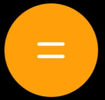
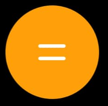
buttons do not contain images anymore. Restyled to make the buttons look similar to IOS calculator. Added active and hover states for buttons.

Changed region(s): [[0.0286, 0.03, 0.9429, 0.99], [0.3429, 0.51, 0.6286, 0.6], [0.3429, 0.39, 0.6286, 0.48]]

diff --git a/assignments/assignment-4/index.html b/assignments/assignment-4/index.html
@@ -14,73 +14,72 @@
 <body>
 <main>
     <div id="input-display">
-        <iframe>
-        </iframe>
-          
-
+        <div id="input-buffer">
+        </div>
     </div>
-    <div id="output-area">
-        <iframe></iframe>
+    <div id="output-display">
+        <div id="output-buffer">
 
+        </div>
     </div>
     <div id="button-container">
 
-        <button id="AC">
-            <img src="button images/AC.PNG">
+        <button id="AC" type="submit">
+            <h1>AC</h1>
         </button>
-        <button id="plusminus">
-            <img src="button images/+-.PNG">
+        <button id="plusminus" type="submit">
+            <h1>+/-</h1>
         </button>
-        <button id="mod">
-            <img src="button images/mod.PNG">
+        <button id="mod" type="submit">
+            <h1>%</h1>
         </button>
-        <button id="division">
-            <img src="button images/div.PNG">
+        <button id="division" type="submit">
+            <h1>/</h1>
         </button>
-        <button id="1">
-            <img src="button images/1.PNG">
+        <button id="1" type="submit">
+            <h1>1</h1>
         </button>
-        <button id="2">
-            <img src="button images/2.PNG">
+        <button id="2" type="submit">
+            <h1>2</h1>
         </button>
-        <button id="3">
-            <img src="button images/3.PNG">
+        <button id="3" type="submit">
+            <h1>3</h1>
         </button>
-        <button id="multiplication">
-            <img src="button images/multiply.PNG">
+        <button id="multiplication" type="submit">
+            <h1>X</h1>
         </button>
-        <button id="4">
-            <img src="button images/4.PNG">
+        <button id="4" type="submit">
+            <h1>4</h1>
         </button>
-        <button id="5">
-            <img src="button images/5.PNG">
+        <button id="5" type="submit">
+            <h1>5</h1>
         </button>
-        <button id="6">
-            <img src="button images/6.PNG">
+        <button id="6" type="submit">
+            <h1>6</h1>
         </button>
-        <button id="subtraction">
-            <img src="button images/sub.PNG">
+        <button id="subtraction" type="submit">
+            <h1>-</h1>
         </button>
-        <button id="7">
-            <img src="button images/7.PNG">
+        <button id="7" type="submit">
+            <h1>7</h1>
         </button>
-        <button id="8">
-            <img src="button images/8.PNG">
+        <button id="8" type="submit">
+            <h1>8</h1>
         </button>
-        <button id="9">
-            <img src="button images/9.PNG">
+        <button id="9" type="submit">
+            <h1>9</h1>
         </button>
-        <button id="addition">
-            <img src="button images/add.PNG">
+        <button id="addition" type="submit">
+            <h1>+</h1>
         </button>
-        <button id="0">
-            <img src="button images/0.PNG">
+        <button id="0" type="submit">
+            <h1>0</h1>
         </button>
-        <button id="decimal">
-        <img src="button images/decimal.PNG">
+        <button id="decimal" type="submit">
+            <h1>.</h1>
         </button>
-        <button id="equals">
-            <img src="button images/equal.PNG">
+        <button id="equals" type="submit">
+            <h1>=</h1>
         </button>
     </div>
     

diff --git a/assignments/assignment-4/style.css b/assignments/assignment-4/style.css
@@ -1,17 +1,24 @@
-#input-display, #output-area {
+
+#input-display, #output-display {
     display: flex;
-    justify-content: center;
-    align-items: center;
-    margin-top: 1rem;
+    flex-direction: row-reverse;
+    border-color: rgb(110, 110, 110);
+    border-style:solid;
     height: 80px;
+    width: 30%;
+    margin-left: 35%;
+    margin-right: 35%;
 }
 
+
 #button-container {
+    margin-left: 35%;
+    margin-right: 35%;
     display: grid;
     grid-template-columns: auto auto auto auto;
     grid-template-rows: auto auto auto auto auto;
-    column-gap: 20px;
-    row-gap: 20px;
+    column-gap: 30px;
+    row-gap: 30px;
     justify-content: center;
     align-items: center;
     margin-top: 1.5rem;
@@ -21,19 +28,42 @@ button {
     margin: 0;
     padding: 0;
     border: 0;
-    width: 100px;
-    height: 100px;
-
+    width: 6rem;
+    height: 6rem;
+    border-radius: 50%;
+    color:#e4e4e4;
+    background-color: #2c2c2c;
 }
 
-button > img {
-    width:fit-content;
-    height: fit-content;
+#AC, #plusminus, #mod {
+    background-color: #474747;
 }
 
-iframe {
-    width:500px;
-    height: 5rem;
+#AC:hover, #plusminus:hover, #mod:hover {
+    background-color: #7a7a7a;
+}
+#AC:active, #plusminus:active, #mod:active {
+    background-color: #7a7a7a7a;
+}
+
+#division,#multiplication,#addition,#subtraction,#equals {
+    background-color:#ff9036;
+}
+
+#division:hover,#multiplication:hover,#addition:hover,#subtraction:hover, #equals:hover {
+    background-color:#ffa053;
+}
+
+#division:active,#multiplication:active,#addition:active,#subtraction:active, #equals:active {
+    background-color:#ffa05369;
+}
+
+button:hover {
+    background-color: rgba(139, 139, 139, 0.664)
+}
+
+button:active {
+    background-color: rgba(100, 100, 100, 0.267)
 }
 
 body {
